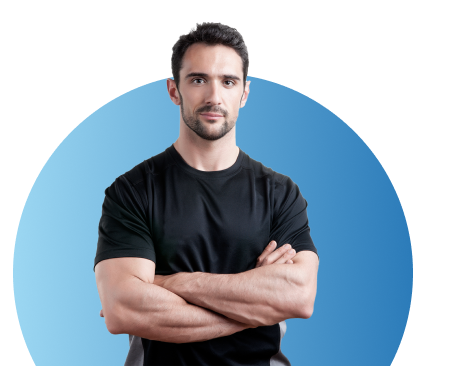
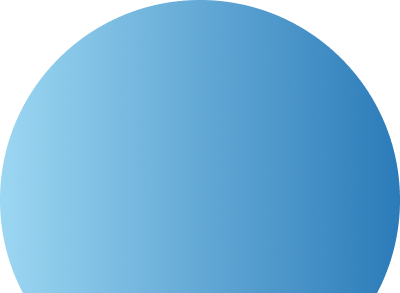
fix: разделено изображение для баннера профессий

diff --git a/professii.html b/professii.html
@@ -169,8 +169,8 @@
 
                             <div class="col-lg-6 col-md-12 col-sm-12 d-flex justify-content-center position-relative">
                                 <div class="banner-block__img" style="background-image: url('assets/img/profession-block-img.png')" ></div>
-
-                                <a href="#" class="btn btn-more" target="_blank">Подробнее о профессии</a>
+                                <img class="prof_file" src="assets/img/prof_file.png">
+                                <a href="#" class="btn btn-more" target="_blank" >Подробнее о профессии</a>
                             </div>
                         </div>
                     </div>

diff --git a/assets/css/style.css b/assets/css/style.css
@@ -2278,7 +2278,7 @@ h3 {
   background-position: bottom;
   background-size: contain;
   height: 100%;
-  width: 100%;
+  width: 80%;
   background-repeat: no-repeat;
 }
 .banner-block .more-btn {
@@ -2569,6 +2569,7 @@ h3 {
   }
 }
 .btn-more {
+  z-index: 3;
   position: absolute;
   bottom: 15px;
   right: 30px;
@@ -2609,5 +2610,11 @@ h3 {
 }
 h3 {
   padding-left: 0;
+}
+.prof_file {
+  position: absolute;
+  bottom: -30px;
+  z-index: 2;
+  width: 50%;
 }
 /*# sourceMappingURL=style.css.map */

diff --git a/assets/css/style.less b/assets/css/style.less
@@ -2498,7 +2498,7 @@ h3{
 		background-position: bottom;
 		background-size: contain;
 		height: 100%;
-		width: 100%;
+		width: 80%;
 		background-repeat: no-repeat;
 	}
 
@@ -2817,6 +2817,7 @@ h3{
 }
 
 .btn-more{
+	z-index: 3;
 	position: absolute;
 	bottom: 15px;
 	right: 30px;
@@ -2861,4 +2862,11 @@ h3{
 
 h3{
 	padding-left: 0;
+}
+
+.prof_file{
+	position: absolute;
+	bottom: -30px;
+	z-index: 2;
+	width: 50%;
 }
